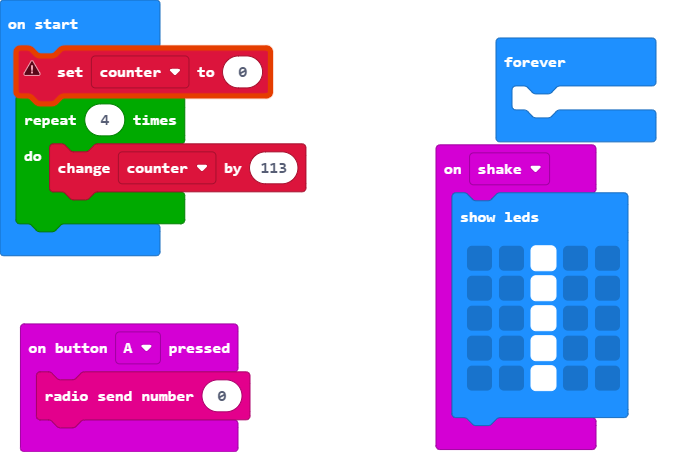
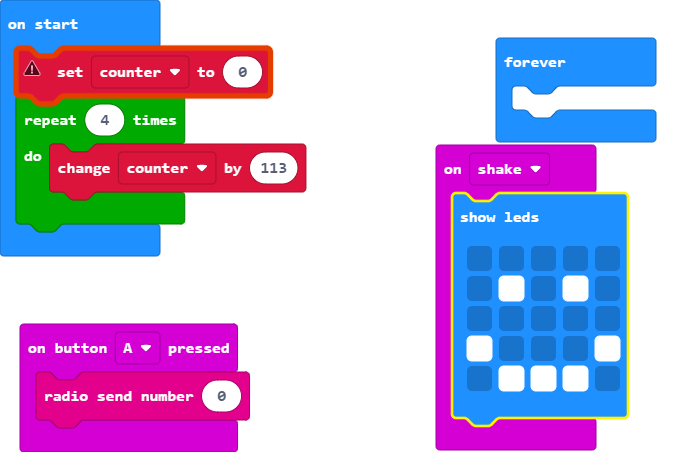
Update main.blocks, main.ts

diff --git a/main.ts b/main.ts
@@ -3,11 +3,11 @@ input.onButtonPressed(Button.A, function () {
 })
 input.onGesture(Gesture.Shake, function () {
     basic.showLeds(`
-        . . # . .
-        . . # . .
-        . . # . .
-        . . # . .
-        . . # . .
+        . . . . .
+        . # . # .
+        . . . . .
+        # . . . #
+        . # # # .
         `)
 })
 let counter = 0
